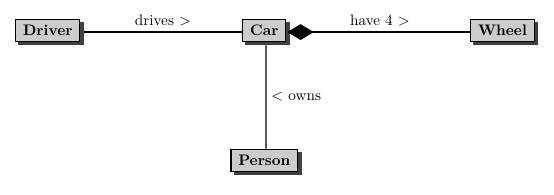
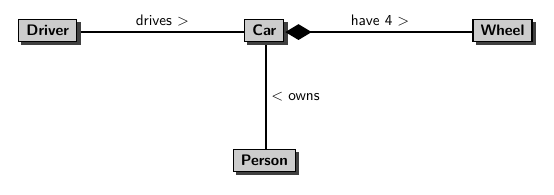
UML diagrams: all MWEs in sans serif; alt texts; Vale vocabulary
- All MWEs are typeset in sans serif (MetaUML via \mplibtextextlabel{enable});
  the separate sans-serif copies are gone. The name-only MetaUML example stays.
- Images have alt texts (markdownlint MD045).
- Vale vocabulary: package names of uml-diagrams.md and ligatures.md;
  (?i) for uml and plantuml, so that Vale.Terms does not enforce lower case.

diff --git a/uml-diagrams/class-relations--pgf-umlcd.tex b/uml-diagrams/class-relations--pgf-umlcd.tex
@@ -1,7 +1,7 @@
 \documentclass[border=4pt]{standalone}
 \usepackage{pgf-umlcd}
 \begin{document}
-\begin{tikzpicture}
+\begin{tikzpicture}[font=\sffamily]
   \begin{class}[text width=1.6cm]{Driver}{0,0}\end{class}
   \begin{class}[text width=1.6cm]{Car}{4,0}\end{class}
   \begin{class}[text width=1.6cm]{Wheel}{8,0}\end{class}

diff --git a/uml-diagrams/class-relations--pst-uml.tex b/uml-diagrams/class-relations--pst-uml.tex
@@ -1,5 +1,7 @@
 \documentclass[border=4pt]{standalone}
 \usepackage{pst-uml}
+% \umlClass sets the class name in \normalfont; the members stay in typewriter font
+\renewcommand{\familydefault}{\sfdefault}
 \begin{document}
 \begin{pspicture}(-1,-3.6)(11.5,0.6)
   \rput(0,0){\rnode{D}{\umlClass{Driver}{}}}

diff --git a/uml-diagrams/class-visibility--pst-uml.tex b/uml-diagrams/class-visibility--pst-uml.tex
@@ -1,5 +1,7 @@
 \documentclass[border=4pt]{standalone}
 \usepackage{pst-uml}
+% \umlClass sets the class name in \normalfont; the members stay in typewriter font
+\renewcommand{\familydefault}{\sfdefault}
 \begin{document}
 \begin{pspicture}(0,0)(6,4)
   \rput(3,2){\umlClass{BankAccount}{%

diff --git a/uml-diagrams/class-visibility--pgf-umlcd.tex b/uml-diagrams/class-visibility--pgf-umlcd.tex
@@ -1,7 +1,7 @@
 \documentclass[border=4pt]{standalone}
 \usepackage{pgf-umlcd}
 \begin{document}
-\begin{tikzpicture}
+\begin{tikzpicture}[font=\sffamily]
   \begin{class}[text width=6cm]{BankAccount}{0,0}
     \attribute{+ owner : String}
     \attribute{\# balance : double}

diff --git a/uml-diagrams/class-relations--metauml.tex b/uml-diagrams/class-relations--metauml.tex
@@ -1,6 +1,9 @@
 \documentclass[border=4pt]{standalone}
 \usepackage{luamplib}
+% Typeset all MetaUML labels with TeX, i.e., in the font of the document
+\mplibtextextlabel{enable}
 \begin{document}
+\sffamily
 \begin{mplibcode}
 input metauml;
 beginfig(1);

diff --git a/uml-diagrams/class-visibility--metauml.tex b/uml-diagrams/class-visibility--metauml.tex
@@ -1,6 +1,9 @@
 \documentclass[border=4pt]{standalone}
 \usepackage{luamplib}
+% Typeset all MetaUML labels with TeX, i.e., in the font of the document
+\mplibtextextlabel{enable}
 \begin{document}
+\sffamily
 \begin{mplibcode}
 input metauml;
 beginfig(1);

diff --git a/uml-diagrams/component--metauml.tex b/uml-diagrams/component--metauml.tex
@@ -1,6 +1,9 @@
 \documentclass[border=4pt]{standalone}
 \usepackage{luamplib}
+% Typeset all MetaUML labels with TeX, i.e., in the font of the document
+\mplibtextextlabel{enable}
 \begin{document}
+\sffamily
 \begin{mplibcode}
 input metauml;
 beginfig(1);

diff --git a/uml-diagrams/sequence--pgf-umlsd.tex b/uml-diagrams/sequence--pgf-umlsd.tex
@@ -1,6 +1,7 @@
 \documentclass[border=4pt]{standalone}
 \usepackage{pgf-umlsd}
 \begin{document}
+\sffamily
 \begin{sequencediagram}
   \newthread{a}{Alice}
   \newinst[2]{b}{Bob}

diff --git a/uml-diagrams.md b/uml-diagrams.md
@@ -28,10 +28,10 @@ All LaTeX sources were compiled with LuaLaTeX of TeX Live 2026 *without* `--shel
 
 | MWE | PlantUML (reference) | MetaUML | pgf-umlcd / pgf-umlsd | pst-uml |
 | -- | -- | -- | -- | -- |
-| Sequence | ![](uml-diagrams/sequence--plantuml.png) | not supported | ![](uml-diagrams/sequence--pgf-umlsd.png) | not supported |
-| Class relations | ![](uml-diagrams/class-relations--plantuml.png) | ![](uml-diagrams/class-relations--metauml.png) | ![](uml-diagrams/class-relations--pgf-umlcd.png) | ![](uml-diagrams/class-relations--pst-uml.png) |
-| Class visibility | ![](uml-diagrams/class-visibility--plantuml.png) | ![](uml-diagrams/class-visibility--metauml.png) | ![](uml-diagrams/class-visibility--pgf-umlcd.png) | ![](uml-diagrams/class-visibility--pst-uml.png) |
-| Components | ![](uml-diagrams/component--plantuml.png) | ![](uml-diagrams/component--metauml.png) | not supported | not supported |
+| Sequence | ![sequence, PlantUML](uml-diagrams/sequence--plantuml.png) | not supported | ![sequence, pgf-umlsd](uml-diagrams/sequence--pgf-umlsd.png) | not supported |
+| Class relations | ![class relations, PlantUML](uml-diagrams/class-relations--plantuml.png) | ![class relations, MetaUML](uml-diagrams/class-relations--metauml.png) | ![class relations, pgf-umlcd](uml-diagrams/class-relations--pgf-umlcd.png) | ![class relations, pst-uml](uml-diagrams/class-relations--pst-uml.png) |
+| Class visibility | ![class visibility, PlantUML](uml-diagrams/class-visibility--plantuml.png) | ![class visibility, MetaUML](uml-diagrams/class-visibility--metauml.png) | ![class visibility, pgf-umlcd](uml-diagrams/class-visibility--pgf-umlcd.png) | ![class visibility, pst-uml](uml-diagrams/class-visibility--pst-uml.png) |
+| Components | ![component, PlantUML](uml-diagrams/component--plantuml.png) | ![component, MetaUML](uml-diagrams/component--metauml.png) | not supported | not supported |
 
 | | LuaLaTeX | pdfLaTeX |
 | -- | -- | -- |
@@ -44,16 +44,17 @@ All LaTeX sources were compiled with LuaLaTeX of TeX Live 2026 *without* `--shel
 
 ### Sans-serif font
 
-All packages can typeset the diagrams in a sans-serif font:
+All MWEs above are typeset in a sans-serif font:
 
-| MetaUML | pgf-umlcd / pgf-umlsd | pst-uml |
-| -- | -- | -- |
-| ![](uml-diagrams/class-relations--sans--metauml.png) | ![](uml-diagrams/class-relations--sans--pgf-umlcd.png) ![](uml-diagrams/sequence--sans--pgf-umlsd.png) | ![](uml-diagrams/class-relations--sans--pst-uml.png) |
-| `\mplibtextextlabel{enable}` lets TeX typeset all MetaUML labels in the current font; `\sffamily` before `mplibcode` switches to sans serif. Without it, MetaUML uses Times (`metauml_defaultFont`). | `\begin{tikzpicture}[font=\sffamily]`; `\sffamily` before `sequencediagram` | `\renewcommand{\familydefault}{\sfdefault}`, because `\umlClass` resets the class name to `\normalfont`; the members stay in typewriter font. |
+- MetaUML: `\mplibtextextlabel{enable}` lets TeX typeset all labels in the current font; `\sffamily` before `mplibcode` switches to sans serif. Without it, MetaUML uses Times (`metauml_defaultFont`).
+- pgf-umlcd: `\begin{tikzpicture}[font=\sffamily]`; pgf-umlsd: `\sffamily` before `sequencediagram`.
+- pst-uml: `\renewcommand{\familydefault}{\sfdefault}`, because `\umlClass` sets the class name in `\normalfont`; the members stay in typewriter font.
 
 ### Hiding the members of a class
 
-- MetaUML: `EClass.Car(iClassNameOnly)("Car")()();` (or `ClassName.Car("Car");`). MetaUML still draws the lines of the (empty) compartments; redefining `Class_paintSkin` omits them (see [class-relations--sans--metauml.tex](uml-diagrams/class-relations--sans--metauml.tex)). A small empty space below the name remains.
+- MetaUML: `EClass.Car(iClassNameOnly)("Car")()();` (or `ClassName.Car("Car");`). MetaUML still draws the lines of the (empty) compartments; redefining `Class_paintSkin` omits them (see [class-relations--name-only--metauml.tex](uml-diagrams/class-relations--name-only--metauml.tex)). A small empty space below the name remains:
+
+  ![class relations, name only, MetaUML](uml-diagrams/class-relations--name-only--metauml.png)
 - pgf-umlcd: an empty `class` environment still shows the empty compartments.
 - pst-uml: `\umlClass{Car}{}` shows the name only.
 
